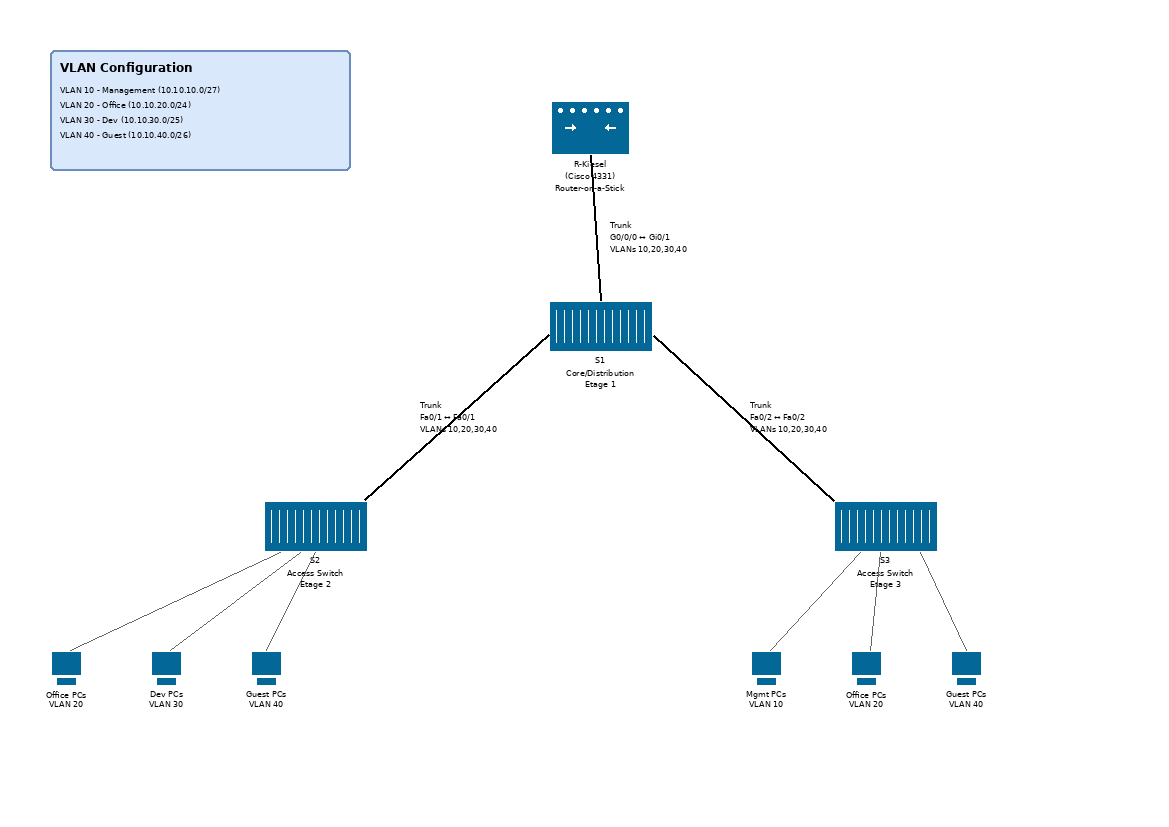
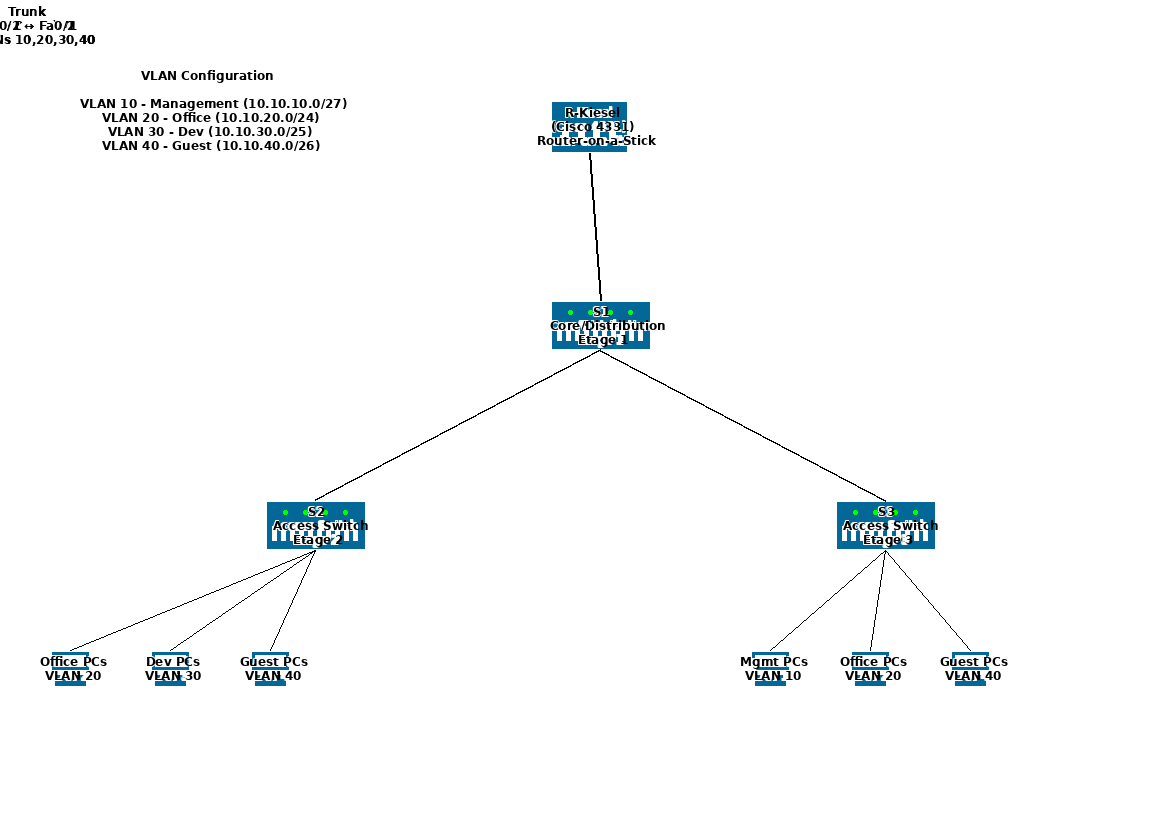
Fix PNG export to include proper Cisco symbols

diff --git a/render_diagram.py b/render_diagram.py
@@ -1,0 +1,325 @@
+#!/usr/bin/env python3
+"""
+Render Draw.io diagram to PNG with Cisco symbols.
+This script parses the .drawio XML and renders it with proper Cisco icons.
+"""
+
+import sys
+import xml.etree.ElementTree as ET
+from pathlib import Path
+from PIL import Image, ImageDraw, ImageFont
+import base64
+import io
+
+# Cisco SVG symbol definitions (simplified versions)
+CISCO_SYMBOLS = {
+    'router': '''<svg xmlns="http://www.w3.org/2000/svg" viewBox="0 0 78 53">
+        <!-- Router body -->
+        <rect x="2" y="10" width="74" height="33" fill="#036897" stroke="#ffffff" stroke-width="2" rx="3"/>
+        <!-- Top indicators -->
+        <circle cx="15" cy="20" r="2" fill="#00ff00"/>
+        <circle cx="25" cy="20" r="2" fill="#00ff00"/>
+        <circle cx="35" cy="20" r="2" fill="#00ff00"/>
+        <!-- Ports -->
+        <rect x="10" y="28" width="8" height="10" fill="#ffffff" stroke="#036897"/>
+        <rect x="25" y="28" width="8" height="10" fill="#ffffff" stroke="#036897"/>
+        <rect x="40" y="28" width="8" height="10" fill="#ffffff" stroke="#036897"/>
+        <rect x="55" y="28" width="8" height="10" fill="#ffffff" stroke="#036897"/>
+        <!-- Front panel line -->
+        <line x1="10" y1="24" x2="68" y2="24" stroke="#ffffff" stroke-width="1"/>
+    </svg>''',
+    
+    'switch': '''<svg xmlns="http://www.w3.org/2000/svg" viewBox="0 0 101 50">
+        <!-- Switch body -->
+        <rect x="2" y="8" width="97" height="34" fill="#036897" stroke="#ffffff" stroke-width="2" rx="2"/>
+        <!-- LED indicators -->
+        <circle cx="12" cy="16" r="1.5" fill="#00ff00"/>
+        <circle cx="20" cy="16" r="1.5" fill="#00ff00"/>
+        <circle cx="28" cy="16" r="1.5" fill="#00ff00"/>
+        <circle cx="36" cy="16" r="1.5" fill="#00ff00"/>
+        <!-- Ports row 1 -->
+        <rect x="10" y="24" width="6" height="8" fill="#ffffff" stroke="#036897"/>
+        <rect x="18" y="24" width="6" height="8" fill="#ffffff" stroke="#036897"/>
+        <rect x="26" y="24" width="6" height="8" fill="#ffffff" stroke="#036897"/>
+        <rect x="34" y="24" width="6" height="8" fill="#ffffff" stroke="#036897"/>
+        <rect x="42" y="24" width="6" height="8" fill="#ffffff" stroke="#036897"/>
+        <rect x="50" y="24" width="6" height="8" fill="#ffffff" stroke="#036897"/>
+        <rect x="58" y="24" width="6" height="8" fill="#ffffff" stroke="#036897"/>
+        <rect x="66" y="24" width="6" height="8" fill="#ffffff" stroke="#036897"/>
+        <rect x="74" y="24" width="6" height="8" fill="#ffffff" stroke="#036897"/>
+        <rect x="82" y="24" width="6" height="8" fill="#ffffff" stroke="#036897"/>
+    </svg>''',
+    
+    'pc': '''<svg xmlns="http://www.w3.org/2000/svg" viewBox="0 0 40 36">
+        <!-- Monitor -->
+        <rect x="4" y="2" width="32" height="22" fill="#036897" stroke="#ffffff" stroke-width="2" rx="2"/>
+        <rect x="7" y="5" width="26" height="16" fill="#ffffff" stroke="#036897"/>
+        <!-- Stand -->
+        <rect x="17" y="24" width="6" height="4" fill="#036897"/>
+        <!-- Base -->
+        <rect x="10" y="28" width="20" height="6" fill="#036897" stroke="#ffffff" stroke-width="1" rx="2"/>
+    </svg>'''
+}
+
+def parse_style(style_str):
+    """Parse style string into a dictionary."""
+    if not style_str:
+        return {}
+    style = {}
+    for part in style_str.split(';'):
+        if '=' in part:
+            key, value = part.split('=', 1)
+            style[key.strip()] = value.strip()
+    return style
+
+def get_cisco_icon(shape_name):
+    """Get the appropriate Cisco icon based on shape name."""
+    if 'router' in shape_name.lower():
+        return 'router'
+    elif 'switch' in shape_name.lower():
+        return 'switch'
+    elif 'pc' in shape_name.lower() or 'computer' in shape_name.lower():
+        return 'pc'
+    return None
+
+def render_cisco_symbol(draw, x, y, width, height, symbol_type, color='#036897'):
+    """Render a Cisco symbol on the image."""
+    # For now, we'll render simple representations
+    # In a production version, we would render the SVG properly
+    
+    if symbol_type == 'router':
+        # Draw router box
+        draw.rectangle([x, y, x+width, y+height], fill=color, outline='white', width=2)
+        # Draw LEDs
+        led_y = y + height//4
+        for i in range(3):
+            led_x = x + (i+1) * width//4
+            draw.ellipse([led_x-3, led_y-3, led_x+3, led_y+3], fill='#00ff00')
+        # Draw ports
+        port_y = y + height//2
+        for i in range(4):
+            port_x = x + (i+1) * width//5
+            draw.rectangle([port_x-4, port_y, port_x+4, port_y+height//3], 
+                         fill='white', outline=color, width=1)
+    
+    elif symbol_type == 'switch':
+        # Draw switch box
+        draw.rectangle([x, y, x+width, y+height], fill=color, outline='white', width=2)
+        # Draw LEDs
+        led_y = y + height//4
+        for i in range(4):
+            led_x = x + (i+1) * width//5
+            draw.ellipse([led_x-2, led_y-2, led_x+2, led_y+2], fill='#00ff00')
+        # Draw many ports
+        port_y = y + height//2
+        num_ports = 10
+        port_spacing = width // (num_ports + 1)
+        for i in range(num_ports):
+            port_x = x + (i+1) * port_spacing
+            draw.rectangle([port_x-3, port_y, port_x+3, port_y+height//3], 
+                         fill='white', outline=color, width=1)
+    
+    elif symbol_type == 'pc':
+        # Draw monitor
+        monitor_height = int(height * 0.6)
+        draw.rectangle([x, y, x+width, y+monitor_height], fill=color, outline='white', width=2)
+        # Draw screen
+        screen_margin = 4
+        draw.rectangle([x+screen_margin, y+screen_margin, 
+                       x+width-screen_margin, y+monitor_height-screen_margin], 
+                      fill='white', outline=color)
+        # Draw stand
+        stand_width = width // 3
+        stand_x = x + width//2 - stand_width//2
+        stand_y = y + monitor_height
+        draw.rectangle([stand_x, stand_y, stand_x+stand_width, stand_y+height//10], fill=color)
+        # Draw base
+        base_width = int(width * 0.8)
+        base_x = x + width//2 - base_width//2
+        base_y = y + monitor_height + height//10
+        draw.rectangle([base_x, base_y, base_x+base_width, y+height], 
+                      fill=color, outline='white', width=1)
+
+def export_drawio_to_png(drawio_path, png_path):
+    """Export Draw.io diagram to PNG with Cisco symbols."""
+    drawio_path = Path(drawio_path)
+    png_path = Path(png_path)
+    
+    if not drawio_path.exists():
+        print(f"Error: {drawio_path} does not exist")
+        return False
+    
+    # Parse the Draw.io XML
+    tree = ET.parse(drawio_path)
+    root = tree.getroot()
+    
+    # Find the diagram element
+    diagram = root.find('.//diagram')
+    if diagram is None:
+        print("Error: No diagram found in file")
+        return False
+    
+    # Get the mxGraphModel
+    model = diagram.find('.//mxGraphModel')
+    if model is None:
+        print("Error: No mxGraphModel found")
+        return False
+    
+    # Get dimensions from model
+    width = int(model.get('pageWidth', '1169'))
+    height = int(model.get('pageHeight', '827'))
+    
+    # Create image with white background
+    img = Image.new('RGB', (width, height), color='white')
+    draw = ImageDraw.Draw(img)
+    
+    # Try to load a font
+    try:
+        font = ImageFont.truetype("/usr/share/fonts/truetype/dejavu/DejaVuSans.ttf", 12)
+        font_bold = ImageFont.truetype("/usr/share/fonts/truetype/dejavu/DejaVuSans-Bold.ttf", 12)
+    except:
+        font = ImageFont.load_default()
+        font_bold = font
+    
+    # Parse all cells
+    cells = {}
+    for cell in model.findall('.//mxCell'):
+        cell_id = cell.get('id')
+        cells[cell_id] = cell
+    
+    # First pass: render rectangles and shapes
+    for cell in model.findall('.//mxCell'):
+        cell_id = cell.get('id')
+        style = parse_style(cell.get('style', ''))
+        value = cell.get('value', '')
+        
+        # Get geometry
+        geom = cell.find('mxGeometry')
+        if geom is None:
+            continue
+        
+        x = float(geom.get('x', '0'))
+        y = float(geom.get('y', '0'))
+        w = float(geom.get('width', '100'))
+        h = float(geom.get('height', '50'))
+        
+        # Check if it's a Cisco shape
+        shape = style.get('shape', '')
+        icon_type = get_cisco_icon(shape)
+        
+        if icon_type:
+            # Render Cisco symbol
+            color = style.get('fillColor', '#036897')
+            render_cisco_symbol(draw, int(x), int(y), int(w), int(h), icon_type, color)
+        
+        elif 'whiteSpace=wrap' in style.get('shape', '') or 'rounded' in style.get('shape', ''):
+            # Render box/rectangle (like VLAN legend)
+            fill_color = style.get('fillColor', '#dae8fc')
+            stroke_color = style.get('strokeColor', '#6c8ebf')
+            
+            # Convert hex colors to RGB tuples
+            def hex_to_rgb(hex_color):
+                hex_color = hex_color.lstrip('#')
+                return tuple(int(hex_color[i:i+2], 16) for i in (0, 2, 4))
+            
+            try:
+                fill_rgb = hex_to_rgb(fill_color)
+                stroke_rgb = hex_to_rgb(stroke_color)
+                draw.rectangle([x, y, x+w, y+h], fill=fill_rgb, outline=stroke_rgb, width=2)
+            except:
+                draw.rectangle([x, y, x+w, y+h], fill='lightblue', outline='blue', width=2)
+    
+    # Second pass: render connections/edges
+    for cell in model.findall('.//mxCell'):
+        style = parse_style(cell.get('style', ''))
+        
+        # Check if it's an edge
+        if cell.get('edge') == '1':
+            source_id = cell.get('source')
+            target_id = cell.get('target')
+            
+            if source_id in cells and target_id in cells:
+                source_geom = cells[source_id].find('mxGeometry')
+                target_geom = cells[target_id].find('mxGeometry')
+                
+                if source_geom is not None and target_geom is not None:
+                    sx = float(source_geom.get('x', '0')) + float(source_geom.get('width', '0'))/2
+                    sy = float(source_geom.get('y', '0')) + float(source_geom.get('height', '0'))
+                    tx = float(target_geom.get('x', '0')) + float(target_geom.get('width', '0'))/2
+                    ty = float(target_geom.get('y', '0'))
+                    
+                    stroke_color = style.get('strokeColor', '#000000')
+                    stroke_width = int(style.get('strokeWidth', '2'))
+                    
+                    # Draw line
+                    draw.line([(sx, sy), (tx, ty)], fill='black', width=stroke_width)
+    
+    # Third pass: render text labels
+    for cell in model.findall('.//mxCell'):
+        value = cell.get('value', '')
+        if not value:
+            continue
+        
+        geom = cell.find('mxGeometry')
+        if geom is None:
+            continue
+        
+        x = float(geom.get('x', '0'))
+        y = float(geom.get('y', '0'))
+        w = float(geom.get('width', '100'))
+        h = float(geom.get('height', '50'))
+        
+        style = parse_style(cell.get('style', ''))
+        
+        # Clean up value (remove HTML tags)
+        value = value.replace('&#xa;', '\n')
+        
+        # Determine if this is a label below/above a shape
+        is_vertex = cell.get('vertex') == '1'
+        
+        # Draw text
+        lines = value.split('\n')
+        font_height = 14
+        total_height = len(lines) * font_height
+        
+        # Center text in the cell
+        text_y = y + (h - total_height) / 2
+        
+        for i, line in enumerate(lines):
+            if line.strip():
+                # Get text bounding box
+                bbox = draw.textbbox((0, 0), line, font=font)
+                text_width = bbox[2] - bbox[0]
+                text_x = x + (w - text_width) / 2
+                
+                # Draw text with outline for better visibility
+                outline_color = 'white'
+                text_color = 'black'
+                
+                # Draw outline
+                for dx in [-1, 0, 1]:
+                    for dy in [-1, 0, 1]:
+                        if dx != 0 or dy != 0:
+                            draw.text((text_x+dx, text_y+dy+i*font_height), line, 
+                                    fill=outline_color, font=font)
+                
+                # Draw main text
+                draw.text((text_x, text_y+i*font_height), line, fill=text_color, font=font_bold)
+    
+    # Save the image
+    img.save(png_path, 'PNG')
+    print(f"Successfully exported to {png_path}")
+    print(f"Image size: {width}x{height}")
+    
+    return True
+
+if __name__ == '__main__':
+    if len(sys.argv) < 3:
+        print("Usage: render_diagram.py <input.drawio> <output.png>")
+        sys.exit(1)
+    
+    drawio_file = sys.argv[1]
+    png_file = sys.argv[2]
+    
+    success = export_drawio_to_png(drawio_file, png_file)
+    sys.exit(0 if success else 1)
